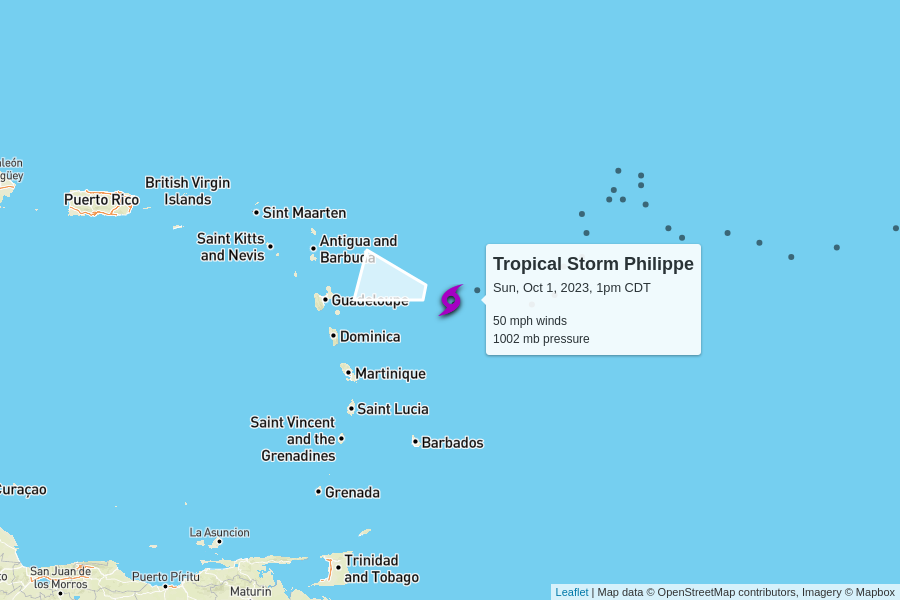
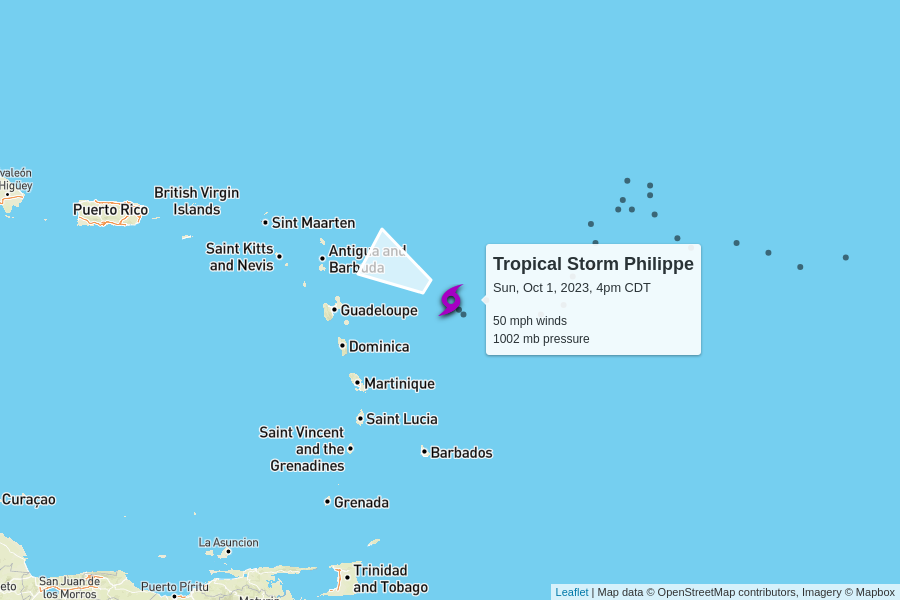
automatic update

diff --git a/docs/index.html b/docs/index.html
@@ -104,7 +104,7 @@
         <td colspan="6" class="storm category-0" >
           <h2>
             Tropical Storm Philippe
-            <p class="updated">last updated <span data-time>2023-10-01T18:00:00.000Z</span></p>
+            <p class="updated">last updated <span data-time>2023-10-01T21:00:00.000Z</span></p>
           </h2>
         </td>
       </tr>
@@ -124,7 +124,7 @@
         <td>
           7 mph to the west-northwest
           <br/>
-          <span style="display: inline-block; font-size: 1.5em; transform: rotate(285deg);">↑</span>
+          <span style="display: inline-block; font-size: 1.5em; transform: rotate(300deg);">↑</span>
         </td>
         <td><a href="https://raw.githubusercontent.com/mgwalker/atlantic-hurricanes/main/data/csv/AL172023.csv">AL172023.csv</a></td>
         <td><a href="https://www.nhc.noaa.gov/archive/2023/PHILIPPE.shtml?">NHC advisories</a></td>
@@ -147,8 +147,8 @@
       <tr>
         <td colspan="6" class="storm category-0" >
           <h2>
-            Tropical Storm Rina
-            <p class="updated">last updated <span data-time>2023-10-01T15:00:00.000Z</span></p>
+            Tropical Depression Rina
+            <p class="updated">last updated <span data-time>2023-10-01T21:00:00.000Z</span></p>
           </h2>
         </td>
       </tr>
@@ -163,12 +163,12 @@
       </tr>
       <tr>
         <td class="spacer"></td>
-        <td>40 mph<br>0 mph since last update</td>
-        <td>1005 mb<br>+1 mb since last update</td>
+        <td>35 mph<br>-5 mph since last update</td>
+        <td>1007 mb<br>+2 mb since last update</td>
         <td>
-          15 mph to the northwest
+          16 mph to the northwest
           <br/>
-          <span style="display: inline-block; font-size: 1.5em; transform: rotate(320deg);">↑</span>
+          <span style="display: inline-block; font-size: 1.5em; transform: rotate(325deg);">↑</span>
         </td>
         <td><a href="https://raw.githubusercontent.com/mgwalker/atlantic-hurricanes/main/data/csv/AL182023.csv">AL182023.csv</a></td>
         <td><a href="https://www.nhc.noaa.gov/archive/2023/RINA.shtml?">NHC advisories</a></td>
